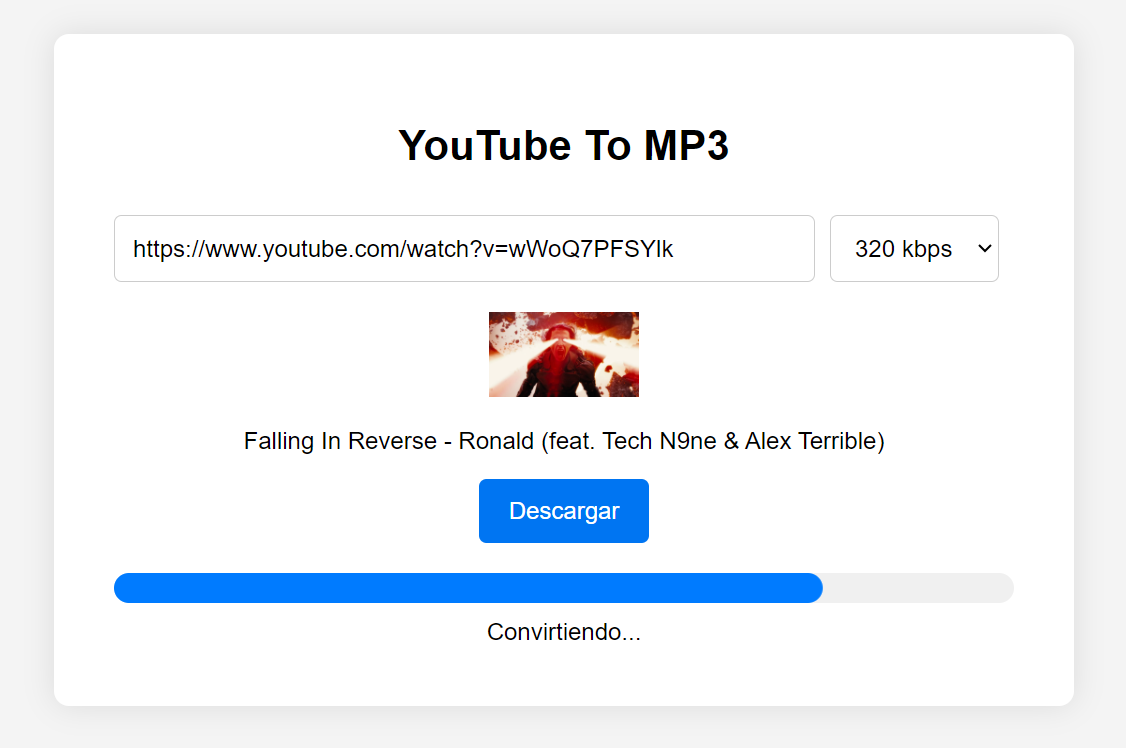
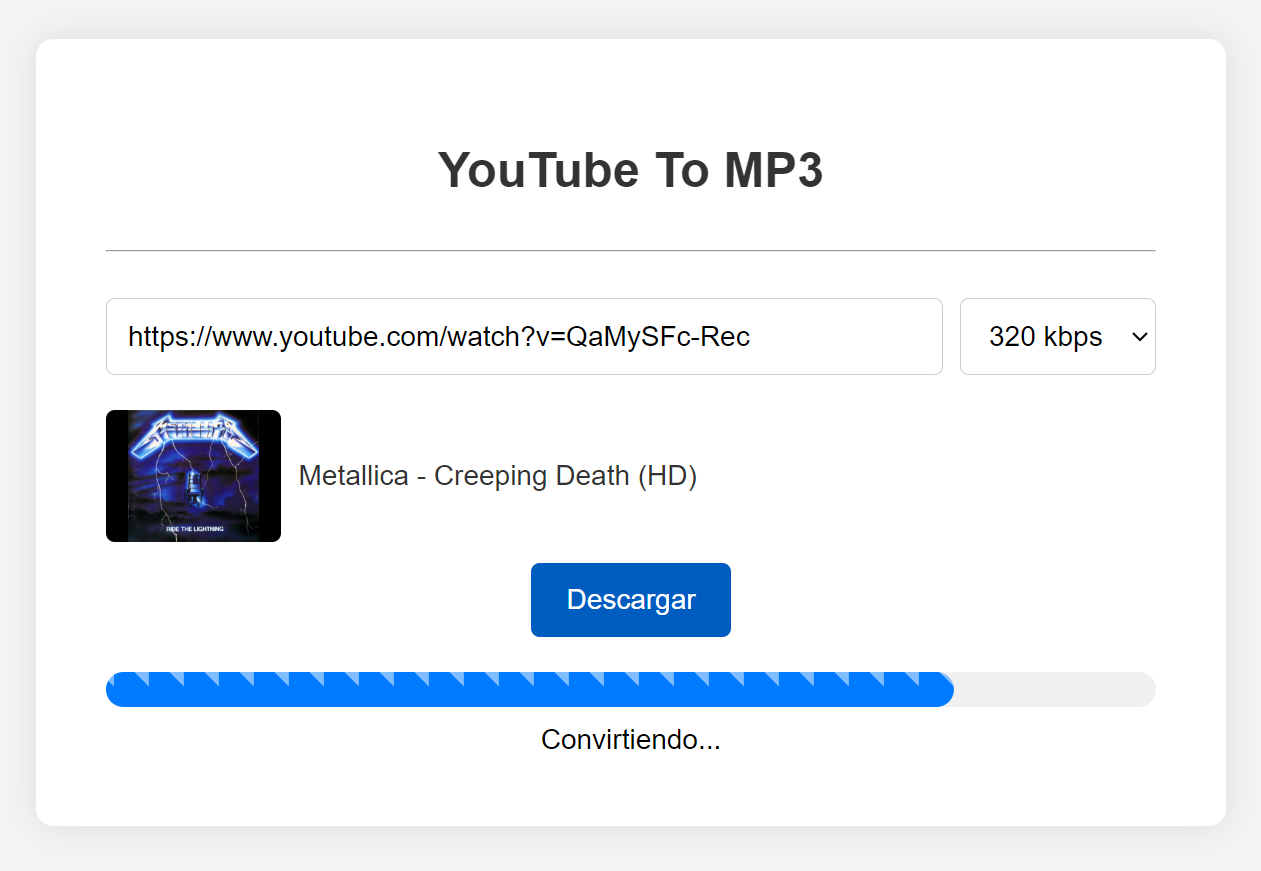
img

diff --git a/README.md b/README.md
@@ -2,10 +2,10 @@
 
 Aplicación web que permite descargar videos de youtube en formato MP3 en diferentes calidades.
 
-<!-- <div align="center">
+<div align="center">
    <img src="https://raw.githubusercontent.com/FrankSkep/YT-Mp3-Downloader/main/public/preview.png" alt="Interfaz">
 </div>
--->
+
 
 ---
 
